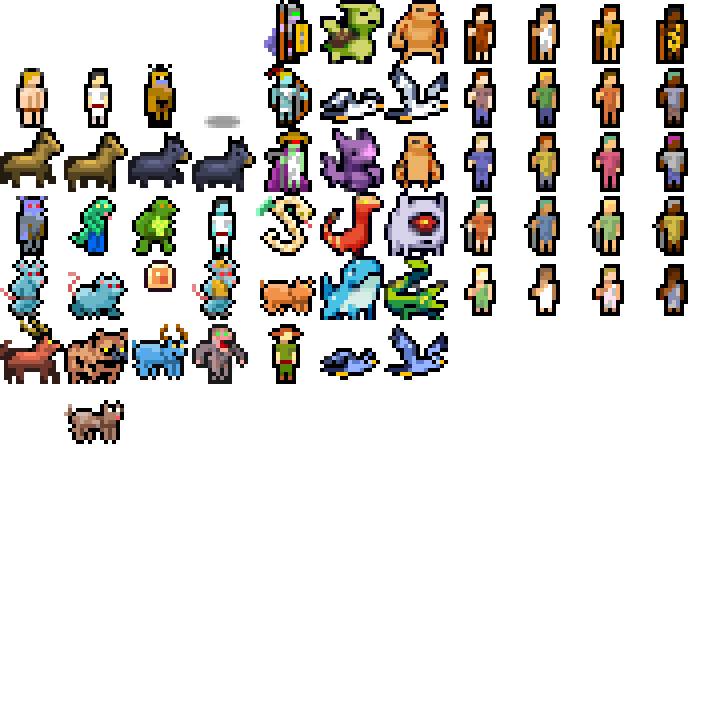
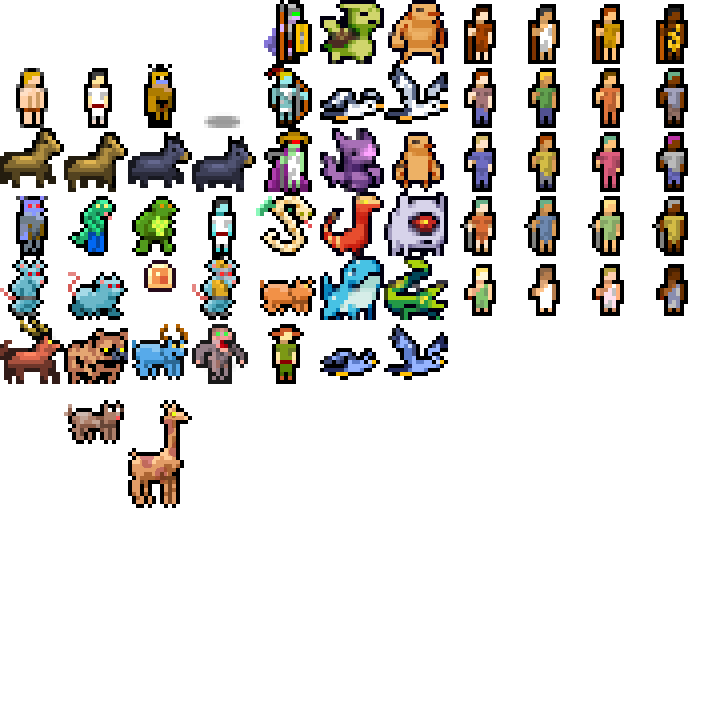
tall actor glyphs

Changed region(s): [[0.1562, 0.5625, 0.2812, 0.7188]]

diff --git a/src/main/kotlin/render/batches/QuadBatch.kt b/src/main/kotlin/render/batches/QuadBatch.kt
@@ -77,10 +77,11 @@ class QuadBatch(
                     textureIndex: Int, visibility: Float, light: LightColor,
                     offsetX: Float = 0f, offsetY: Float = 0f,
                     scale: Double = 1.0, alpha: Float = 1f, hue: Float = 0f,
-                    grayBlend: Float? = null, mirror: Boolean = false, rotate: Boolean = false, waves: Float = 0f) {
+                    grayBlend: Float? = null, mirror: Boolean = false, rotate: Boolean = false,
+                    waves: Float = 0f, isTall: Boolean = false) {
         val scaleOffset = (1.0 - scale) * 0.5
         val x0 = Screen.tileXtoGlx(col + offsetX + scaleOffset)
-        val y0 = Screen.tileYtoGly(row + offsetY + scaleOffset)
+        val y0 = Screen.tileYtoGly((row - (if (isTall) 1 else 0)) + offsetY + scaleOffset)
         val x1 = Screen.tileXtoGlx(col + offsetX + 1.0 - scaleOffset * 2.0)
         val y1 = Screen.tileYtoGly(row + offsetY + 1.0 - scaleOffset * 2.0)
         val lightR = min(visibility, light.r + App.level.weather.lightning.r) * Screen.brightness
@@ -89,7 +90,7 @@ class QuadBatch(
         val grayOut = grayBlend ?: if (visibility < 1f) 1f else App.level.weather.lightning.r * 0.6f
         val itx0 = if (mirror) 1f else 0f
         val itx1 = if (mirror) 0f else 1f
-        addQuad(x0, y0, x1, y1, itx0, 0f, itx1, 1f, textureIndex, lightR, lightG, lightB, alpha, grayOut, hue, rotate, waves)
+        addQuad(x0, y0, x1, y1, itx0, 0f, itx1, if (isTall) 2f else 1f, textureIndex, lightR, lightG, lightB, alpha, grayOut, hue, rotate, waves)
     }
 
     fun addPartialQuad(x0: Double, y0: Double, x1: Double, y1: Double,
@@ -109,14 +110,14 @@ class QuadBatch(
 
     fun addPixelQuad(x0: Int, y0: Int, x1: Int, y1: Int, // absolute screen pixel XY
                      textureIndex: Int, lightR: Float = 1f, lightG: Float = 1f, lightB: Float = 1f,
-                     hue: Float? = null, alpha: Float = 1f, mirror: Boolean = false) {
+                     hue: Float? = null, alpha: Float = 1f, mirror: Boolean = false, isTall: Boolean = false) {
         val glx0 = (x0 / Screen.width.toDouble()) * 2f - 1f
         val gly0 = (y0 / Screen.height.toDouble()) * 2f - 1f
         val glx1 = (x1 / Screen.width.toDouble()) * 2f - 1f
         val gly1 = (y1 / Screen.height.toDouble()) * 2f - 1f
         val itx0 = if (mirror) 1f else 0f
         val itx1 = if (mirror) 0f else 1f
-        addQuad(glx0, gly0, glx1, gly1, itx0, 0f, itx1, 1f, textureIndex,
+        addQuad(glx0, gly0, glx1, gly1, itx0, 0f, itx1, if (isTall) 2f else 1f, textureIndex,
                 lightR, lightG, lightB, alpha, 0f, hue ?: Screen.uiHue.toFloat())
     }
 

diff --git a/src/main/kotlin/render/Screen.kt b/src/main/kotlin/render/Screen.kt
@@ -255,14 +255,16 @@ object Screen : KtxScreen {
                 )
             }
         }
+        val glyph = actor.glyph()
         actorBatch.addTileQuad(
             tx, ty,
-            actorBatch.getTextureIndex(actor.glyph(), App.level, tx, ty), vis, light,
+            actorBatch.getTextureIndex(glyph, App.level, tx, ty), vis, light,
             offsetX = if (vis == 1f) actor.animOffsetX() else 0f,
             offsetY = if (vis == 1f) actor.animOffsetY() else 0f,
             hue = actor.hue(),
             mirror = if (vis == 1f) actor.mirrorGlyph else false,
-            rotate = if (vis == 1f) actor.rotateGlyph else false
+            rotate = if (vis == 1f) actor.rotateGlyph else false,
+            isTall = glyph.tall
         )
         actor.gearDrawList.forEach { gear ->
             val trans = gear.glyphTransform()

diff --git a/src/main/kotlin/ui/panels/LookPanel.kt b/src/main/kotlin/ui/panels/LookPanel.kt
@@ -66,11 +66,12 @@ object LookPanel : ShadedPanel() {
 
     override fun drawEntities() {
         entity?.also { entity ->
+            val glyph = entity.glyph()
             val x0 = x + padding - 10
-            val y0 = y + padding - 12
-            entity.uiBatch().addPixelQuad(x0, y0, x0 + 32, y0 + 32,
+            val y0 = y + padding - 12 - (if (glyph.tall) 32 else 0)
+            entity.uiBatch().addPixelQuad(x0, y0, x0 + 32, y0 + (if (glyph.tall) 64 else 32),
                 entity.uiBatch().getTextureIndex(entity.glyph(), entity.level(), entity.xy().x, entity.xy().y),
-                hue = entity.hue())
+                hue = entity.hue(), isTall = glyph.tall)
         }
     }
 

diff --git a/src/main/kotlin/ui/input/Keyboard.kt b/src/main/kotlin/ui/input/Keyboard.kt
@@ -2,6 +2,7 @@ package ui.input
 
 import App
 import actors.Herder
+import actors.Jerif
 import actors.actions.Wait
 import com.badlogic.gdx.Gdx
 import com.badlogic.gdx.Input.Keys.*
@@ -227,6 +228,7 @@ object Keyboard : KtxInputAdapter {
                     K -> { App.player.debugMove(SOUTH) }
                     L -> { App.player.debugMove(EAST) }
 
+                    F8 -> { Jerif().spawnAt(App.player.level!!, App.player.xy.x + 1, App.player.xy.y) }
                     F9 -> { App.DEBUG_VISIBLE = !App.DEBUG_VISIBLE }
                     F10 -> { Sunsword().moveTo(groundAtPlayer()) }
                     F11 -> {

diff --git a/src/main/kotlin/ui/panels/Console.kt b/src/main/kotlin/ui/panels/Console.kt
@@ -229,7 +229,7 @@ object Console : Panel() {
     }
 
     override fun drawBackground() {
-        if (mouseInside) {
+        if (mouseInside && !App.attractMode) {
             Screen.uiBatch.addPixelQuad(xMargin, yMargin + EnvPanel.height + yMargin,
                 Screen.width - xMargin * 2 - RadarPanel.width, Screen.height - yMargin,
                 Screen.uiBatch.getTextureIndex(Glyph.CONSOLE_SHADE), alpha = 0.5f)

diff --git a/src/main/kotlin/actors/Jerif.kt b/src/main/kotlin/actors/Jerif.kt
@@ -1,0 +1,14 @@
+package actors
+
+import actors.states.IdleWander
+import kotlinx.serialization.Serializable
+import render.tilesets.Glyph
+
+@Serializable
+class Jerif : NPC() {
+    override fun name() = "jerif"
+    override fun glyph() = Glyph.JERIF
+    override fun shadowWidth() = 1.7f
+    override fun description() = "A tall long-necked equine ruminant."
+    override fun idleState() = IdleWander(0.35f)
+}

diff --git a/src/main/kotlin/world/level/Level.kt b/src/main/kotlin/world/level/Level.kt
@@ -159,7 +159,7 @@ sealed class Level {
     fun forEachActorToRender(
         doThis: (x: Int, y: Int, actor: Actor, vis: Float) -> Unit,
         delta: Float) =
-        director.actors.forEach { actor ->
+        director.actors.sortedBy { it.xy.y }.forEach { actor ->
             val x = actor.xy.x
             val y = actor.xy.y
             val vis =  if (App.DEBUG_VISIBLE) 1f else visibilityAt(x, y)

diff --git a/src/main/kotlin/render/tilesets/Glyph.kt b/src/main/kotlin/render/tilesets/Glyph.kt
@@ -3,7 +3,7 @@ package render.tilesets
 import kotlinx.serialization.Serializable
 
 @Serializable
-enum class Glyph {
+enum class Glyph(val tall: Boolean = false) {
     BLANK,
 
     BRICK_WALL,
@@ -131,6 +131,7 @@ enum class Glyph {
     MANAPE,
     GATOR,
     DOG,
+    JERIF(tall = true),
 
     OAK_TREE,
     MAPLE_TREE,

diff --git a/src/main/kotlin/render/tilesets/MobTileSet.kt b/src/main/kotlin/render/tilesets/MobTileSet.kt
@@ -65,4 +65,5 @@ fun ActorTileSet() =
         setTile(Glyph.PEASANT_BLACK_BLOND, SimpleTile(this, 10, 3))
         setTile(Glyph.PEASANT_BLACK_CHILD, SimpleTile(this, 10, 4))
         setTile(Glyph.DOG, SimpleTile(this, 1, 6))
+        setTile(Glyph.JERIF, SimpleTile(this, 2, 6))
     }

diff --git a/src/main/kotlin/ui/modals/MapModal.kt b/src/main/kotlin/ui/modals/MapModal.kt
@@ -159,6 +159,7 @@ class MapModal : Modal(1200, 900, "- yOUr tRAvELs -") {
     }
 
     override fun drawText() {
+        super.drawText()
         if (!showThreat) return
         val x0 = x + paddingX
         val y0 = y + paddingY
